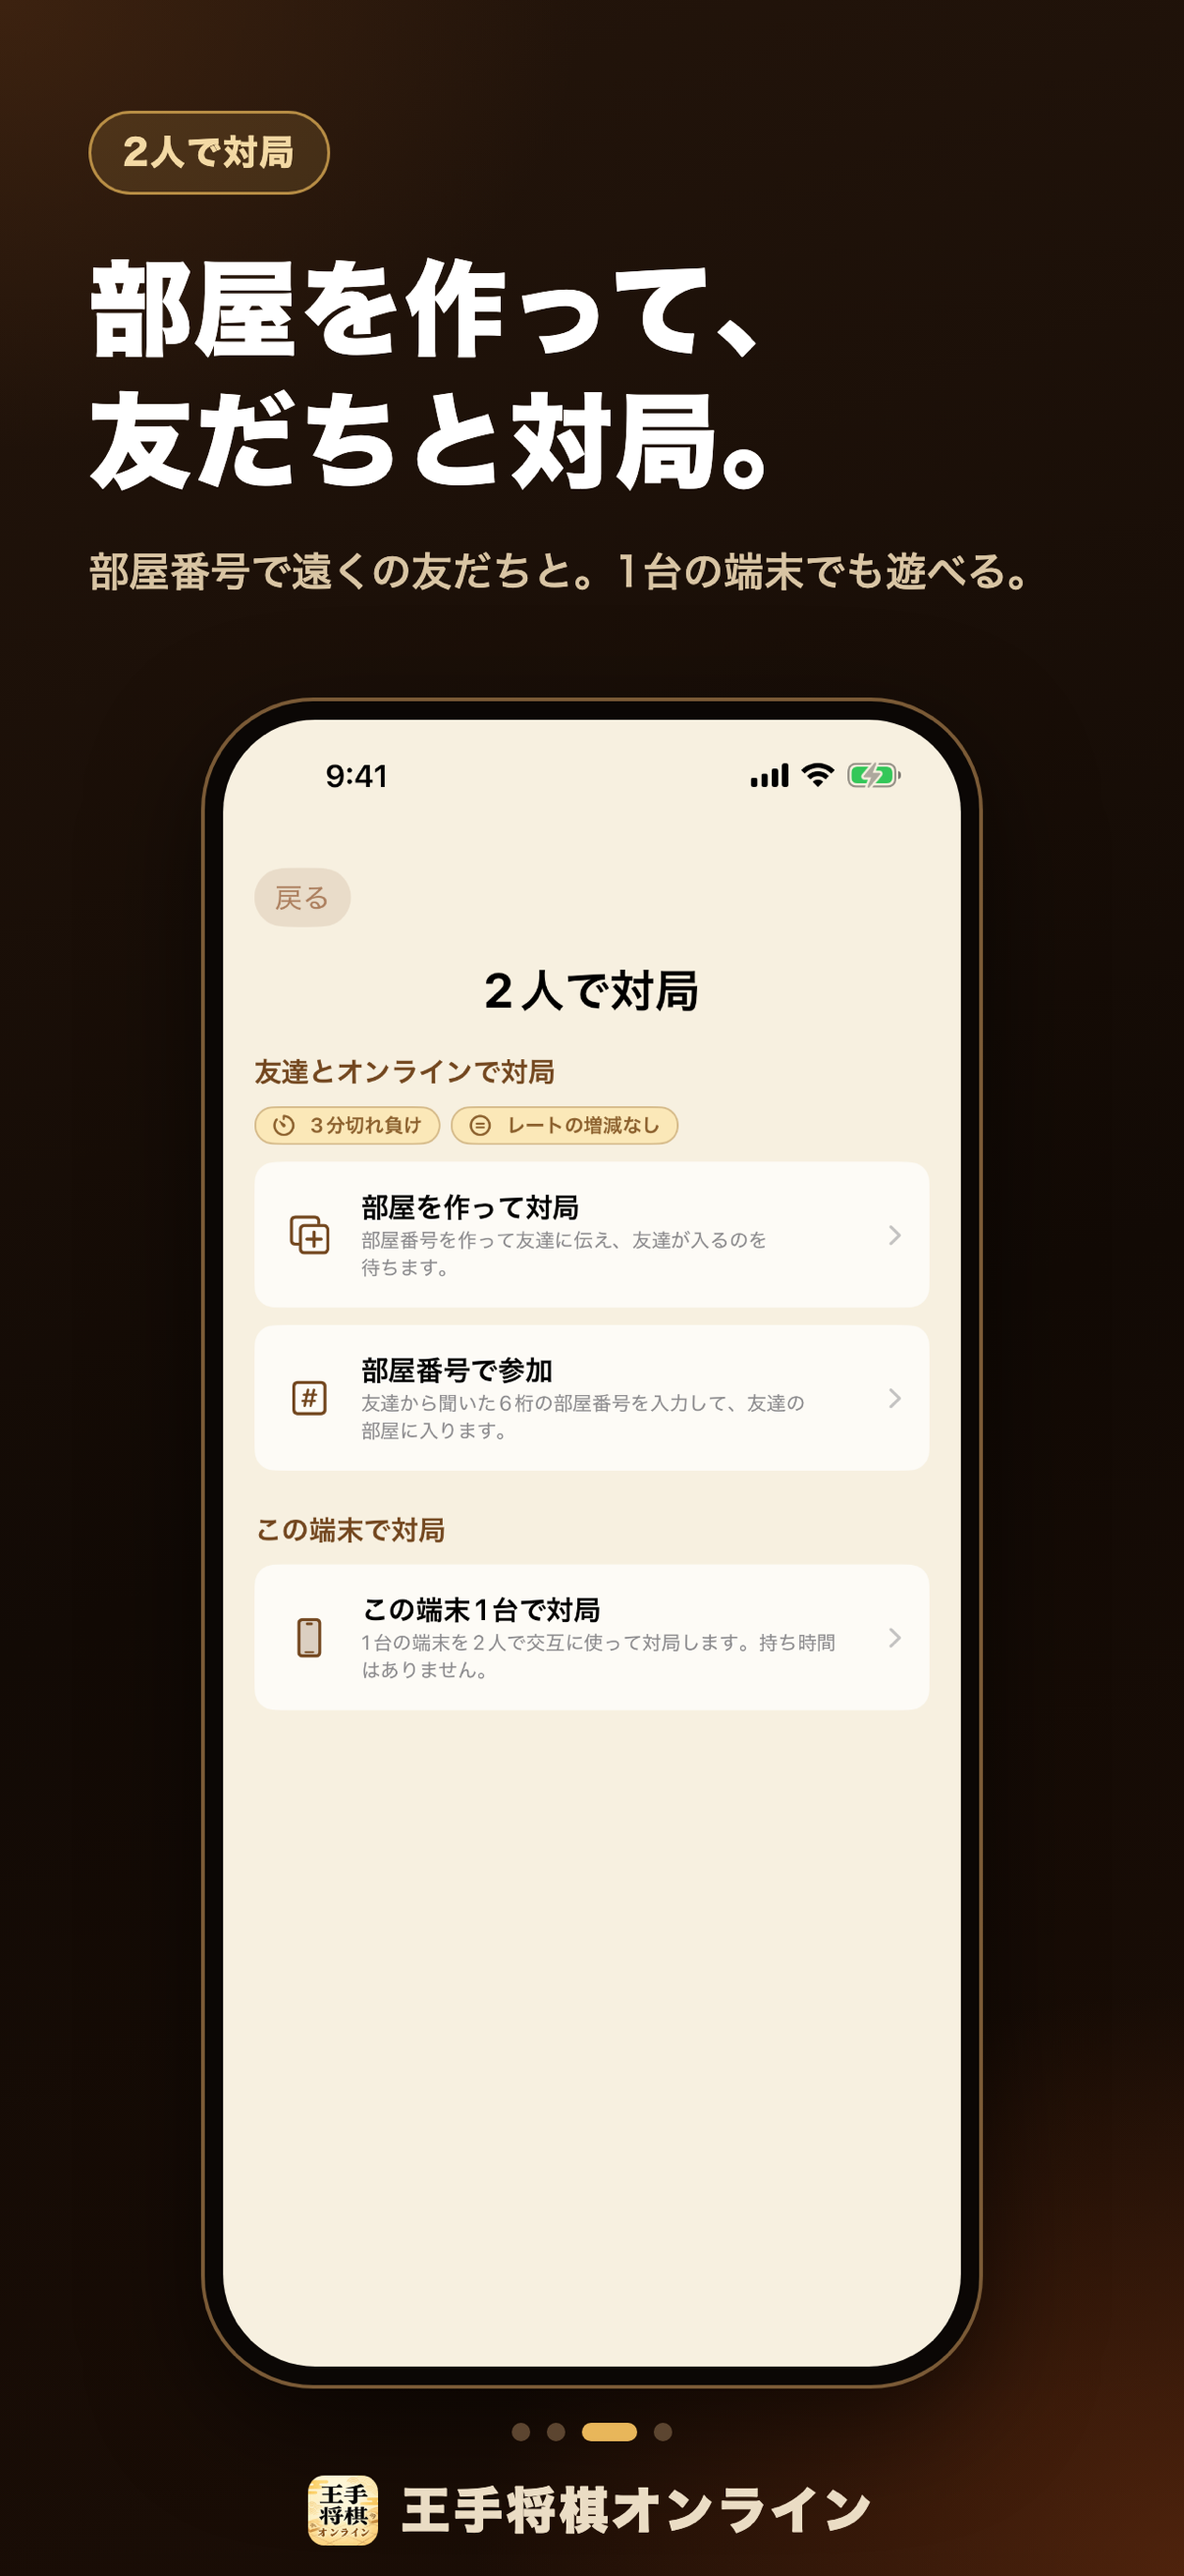
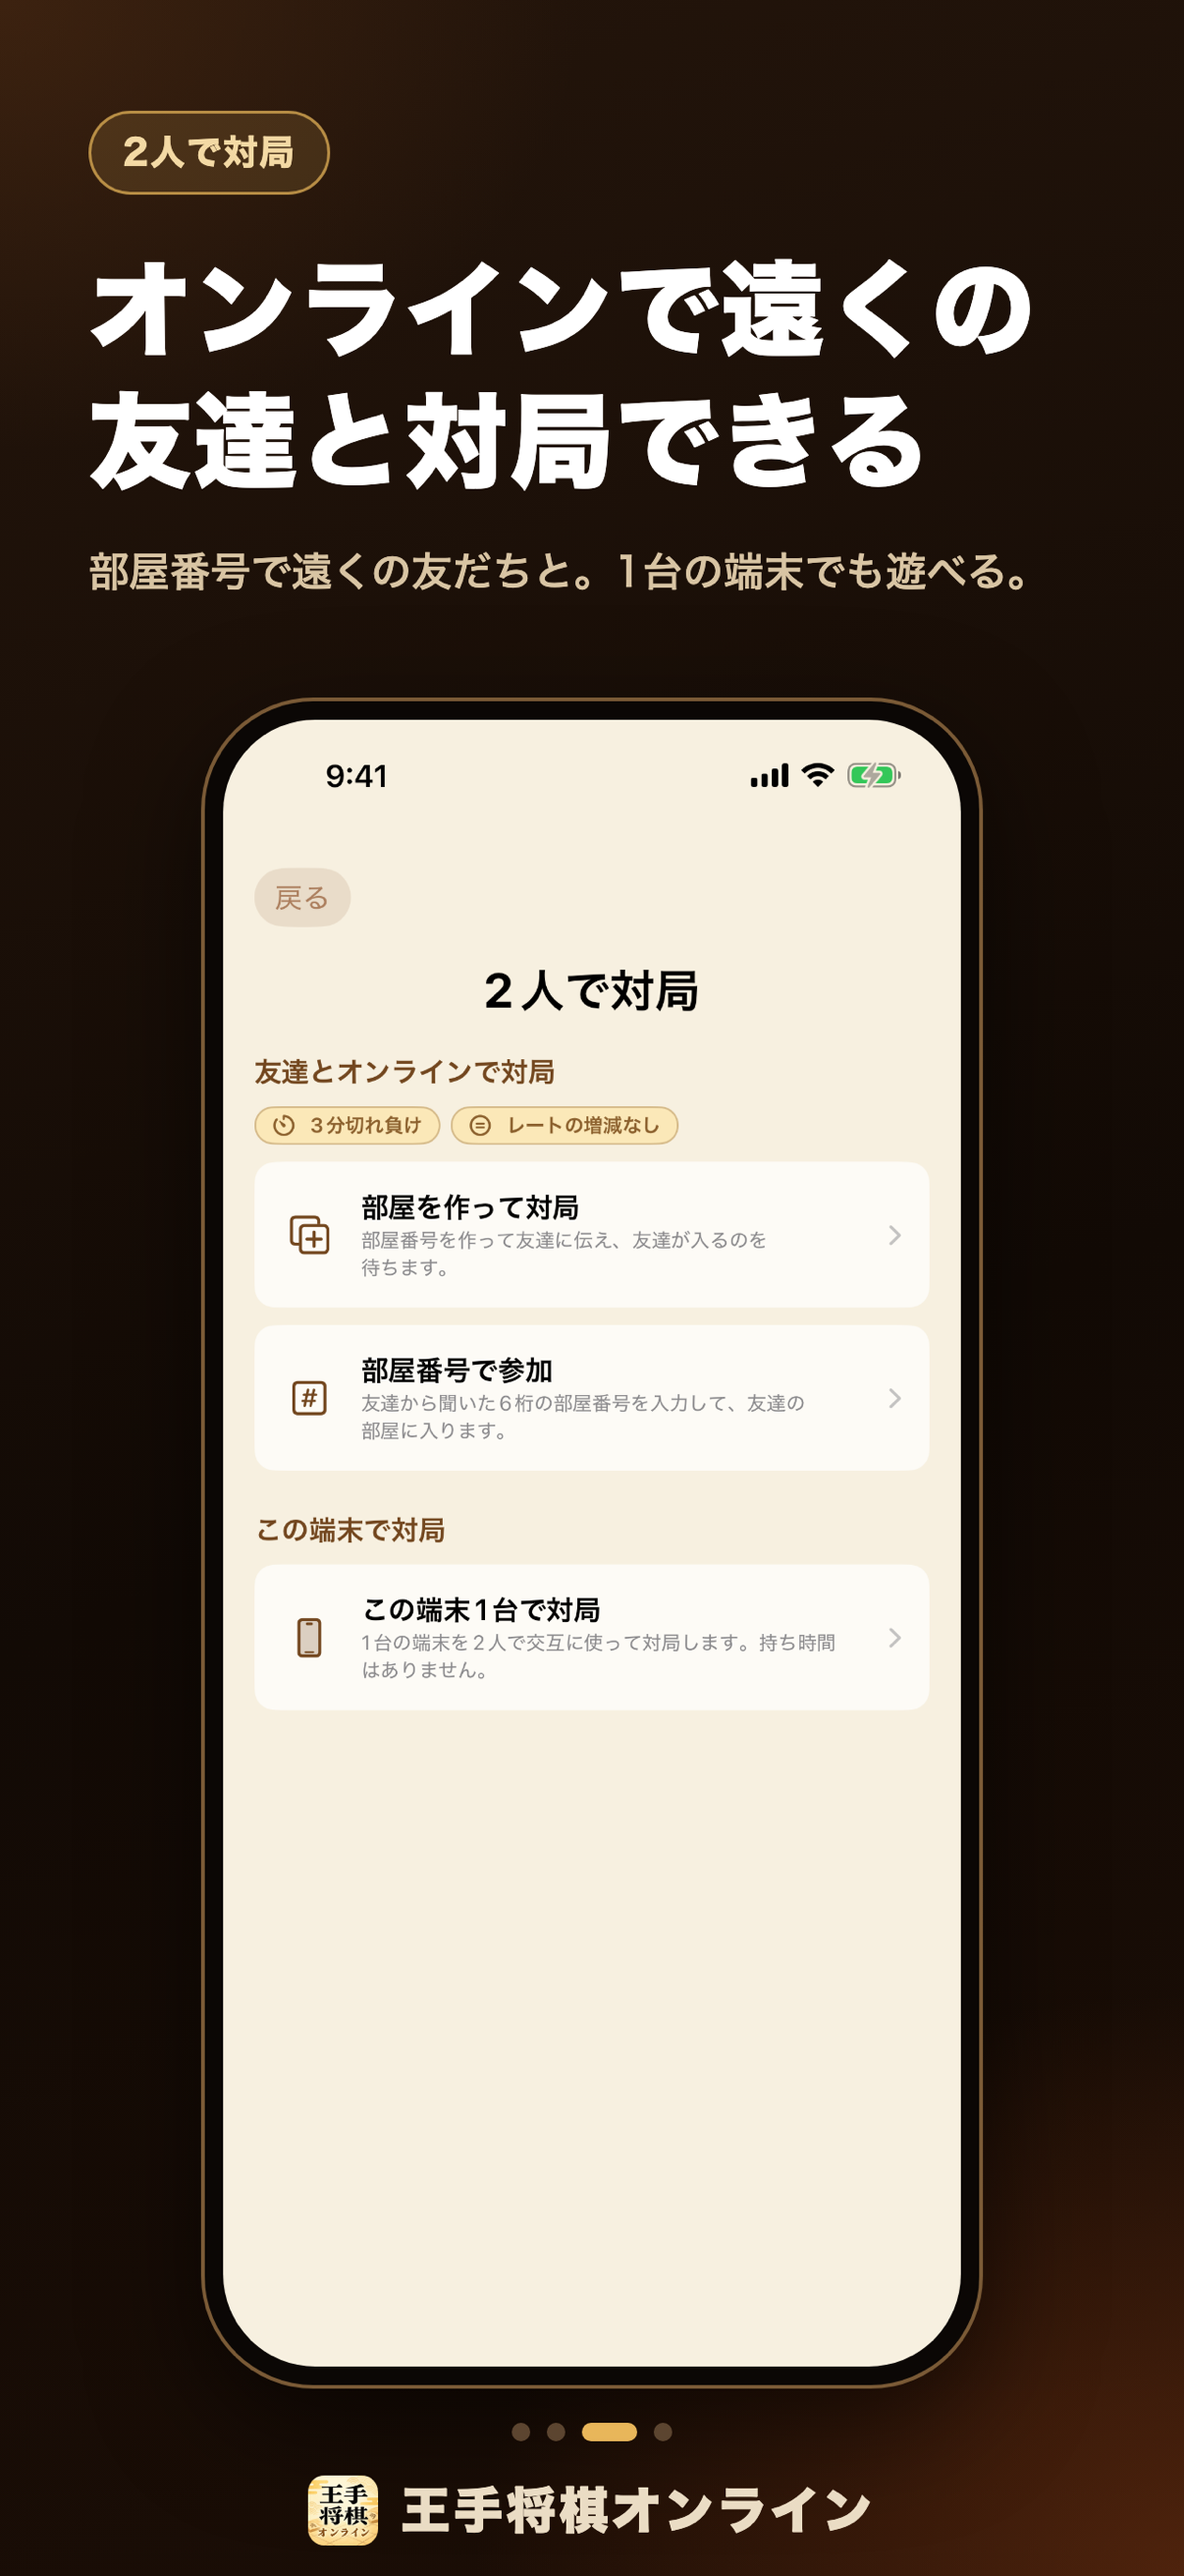
王手将棋オンライン: プロモ画像の見出しを更新

Changed region(s): [[0.0614, 0.0927, 0.7977, 0.2162], [0.7977, 0.0927, 0.8897, 0.1545]]

diff --git a/OuteShogiOnline/support.html b/OuteShogiOnline/support.html
@@ -101,10 +101,10 @@
 <p>オンライン対局で不適切なユーザー名を見つけた場合は、ランキングや対局結果の画面の「…」から通報・ブロックできます。そのほかの不適切な利用者の報告やお問い合わせは、下記の連絡先までお願いいたします。</p>
 
 <div class="promo-grid">
-  <img src="asset/promo_01.png" alt="先に王手した方が、勝ち。一手の油断が命取り。序盤から気が抜けない。">
-  <img src="asset/promo_02.png" alt="ランダムな相手と、レート戦。レート戦を戦い抜き、頂点を目指そう！">
-  <img src="asset/promo_03.png" alt="部屋を作って、友だちと対局。部屋番号で遠くの友だちと。1台の端末でも遊べる。">
-  <img src="asset/promo_04.png" alt="4段階のAIと、対局できる。練習や肩慣らしに。先手・後手も選べる。">
+  <img src="asset/promo_01.png" alt="先に王手した方が勝ち。一手の油断が命取り。序盤から気が抜けない。">
+  <img src="asset/promo_02.png" alt="オンラインでレート戦。勝ち上がって、ランキングの上位を目指そう！">
+  <img src="asset/promo_03.png" alt="オンラインで遠くの友達と対局できる。部屋番号で遠くの友だちと。1台の端末でも遊べる。">
+  <img src="asset/promo_04.png" alt="4段階のAIと対局できる。練習や肩慣らしに。先手・後手も選べる。">
 </div>
 
 <h2>ルール</h2>
